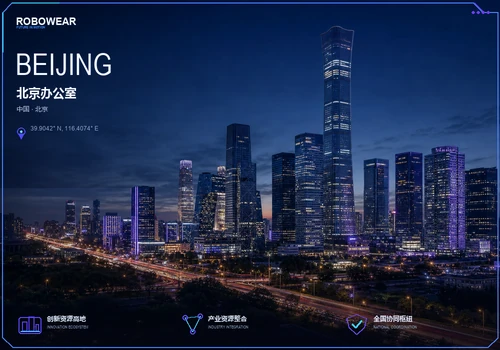
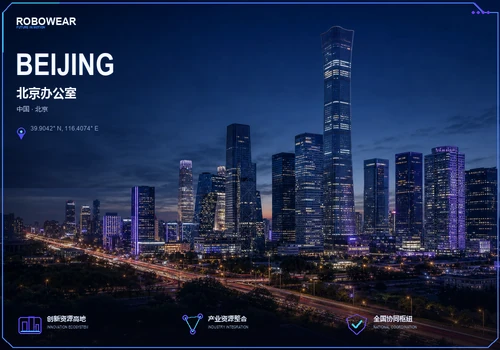
Refine global offices and footer copy

Changed region(s): [[0.03, 0.1429, 0.24, 0.2286]]

diff --git a/src/components/Footer.jsx b/src/components/Footer.jsx
@@ -33,11 +33,10 @@ export default function Footer() {
             </Link>
             <p className="mt-4 max-w-xs text-sm leading-relaxed text-white/45">
               {T(
-                'RoboWear International — 全球首个具身机器人在线服装 DIY 定制选购平台。机器人时代的 Nike，让每一台机器人都拥有独一无二的外在身份。',
-                'RoboWear International — the world’s first online DIY apparel customization platform for embodied robots. The Nike of the robotic era, giving every robot a one-of-a-kind identity.'
+                'RoboWear-全球首个具身机器人在线服装 DIY 定制选购平台，让每一台机器人都拥有独一无二的外在身份。',
+                'RoboWear — the world’s first online DIY apparel customization and shopping platform for embodied robots, giving every robot a one-of-a-kind external identity.'
               )}
             </p>
-            <p className="mt-4 text-xs uppercase tracking-widest2 text-white/30">RoboWear International Ltd. · Est. 2026</p>
           </div>
 
           {/* 五大产品线链接 */}
@@ -75,7 +74,7 @@ export default function Footer() {
               <li>
                 <span className="font-medium text-white/70">{T('香港', 'Hong Kong')}</span>
                 <br />
-                {T('国际融资与资本运作', 'International financing & capital ops')}
+                {T('国际资本运作中心 · 中国香港', 'International capital operations center · Hong Kong, China')}
               </li>
               <li>
                 <span className="font-medium text-white/70">{T('北京', 'Beijing')}</span>

diff --git a/src/pages/Contact.jsx b/src/pages/Contact.jsx
@@ -35,8 +35,8 @@ const OFFICES = [
   {
     cityZh: '香港',
     cityEn: 'Hong Kong',
-    roleZh: '国际融资与资本运作',
-    roleEn: 'International financing & capital ops',
+    roleZh: '国际资本运作中心',
+    roleEn: 'International capital operations center',
     addrZh: '中国香港特别行政区中环金融街',
     addrEn: 'Central Financial District, Hong Kong SAR, China',
     tone: 'rose',
@@ -47,8 +47,8 @@ const OFFICES = [
     cityEn: 'Beijing',
     roleZh: '产业资源整合中心',
     roleEn: 'Industry resource integration center',
-    addrZh: '中国北京市',
-    addrEn: 'Beijing, China',
+    addrZh: '中国北京市朝阳区建国门外大街1号国贸中心',
+    addrEn: 'China World Trade Center, No. 1 Jianguomen Outer Street, Chaoyang District, Beijing, China',
     tone: 'cyber',
     image: 'office-beijing.webp'
   }
